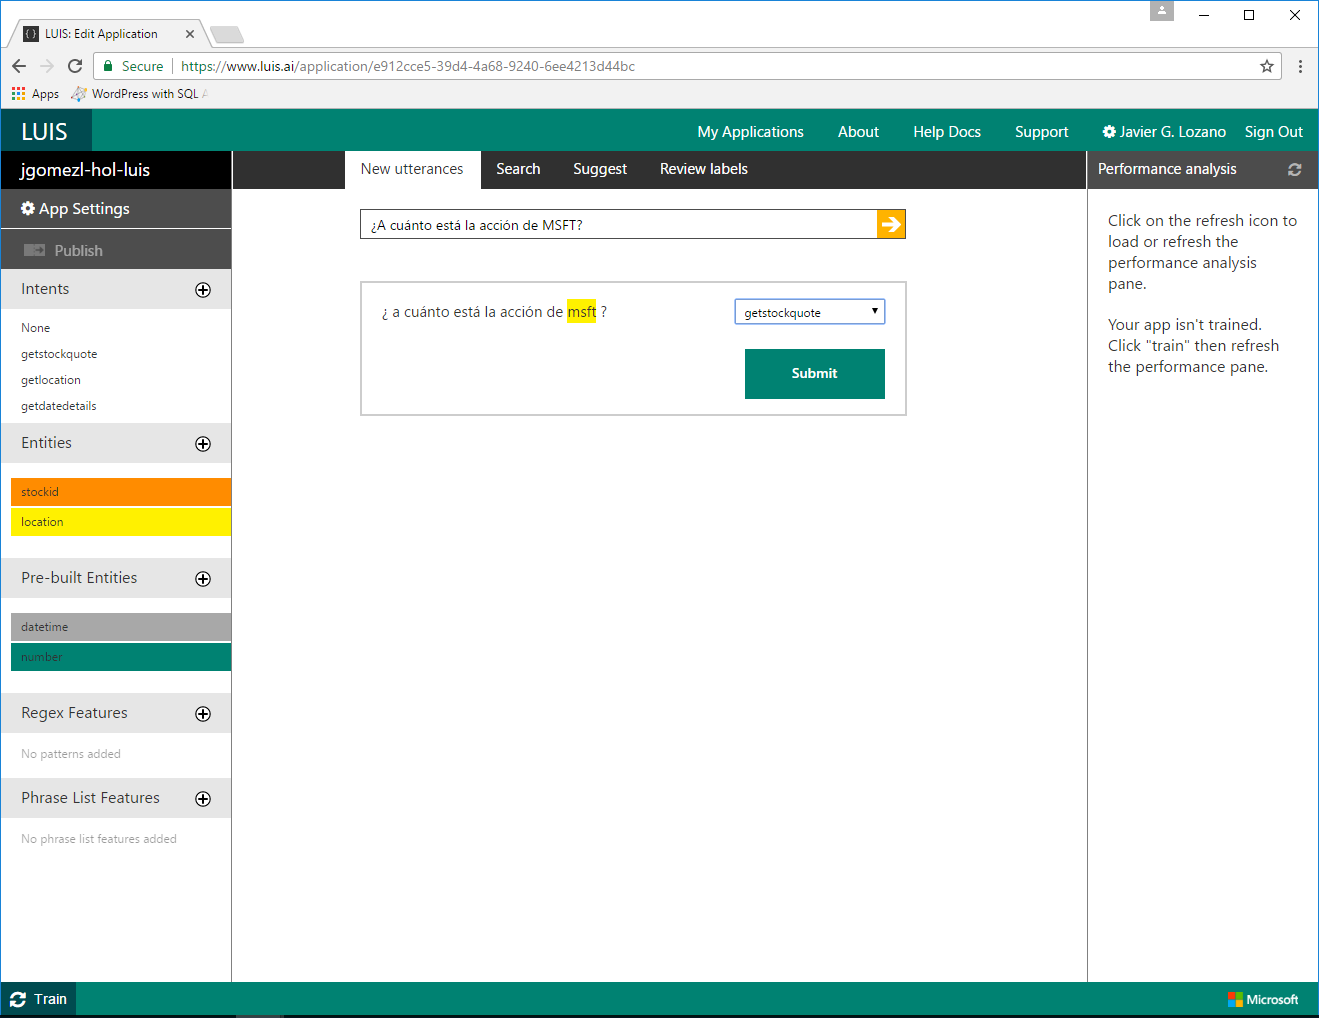
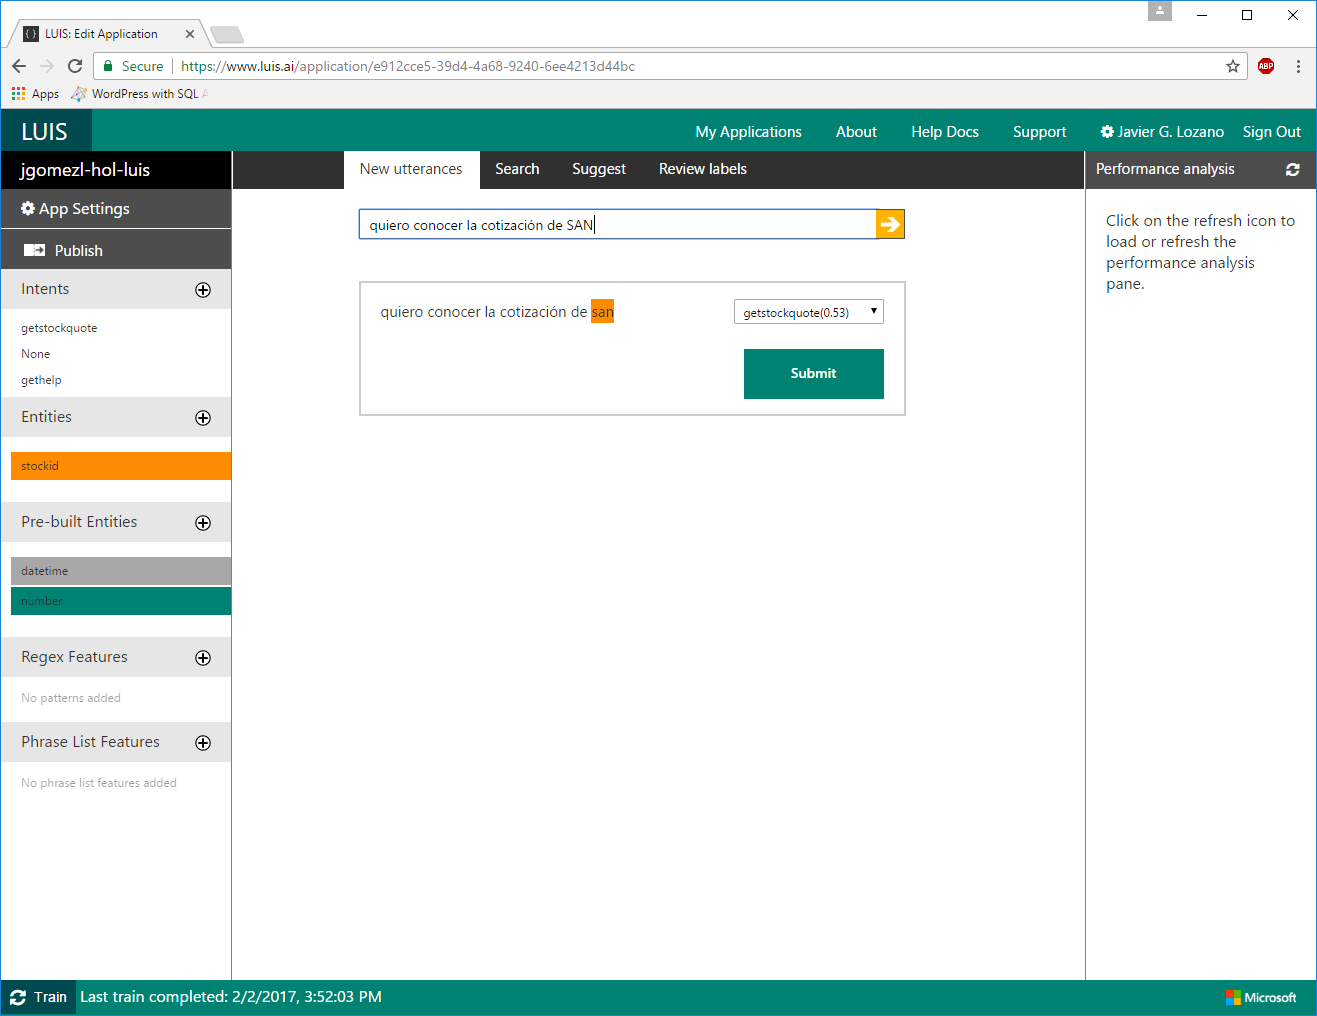
finished 2nd part. added 3rd part.

diff --git a/03. Cognitive Services - Hands on Lab/second-lab.md b/03. Cognitive Services - Hands on Lab/second-lab.md
@@ -1,7 +1,9 @@
 # BOT FRAMEWORK + LUIS (SEGUNDA PARTE)
 * [INTRODUCCIÓN](#introducciÓn)
 * [OBTENCIÓN CREDENCIALES DE DESPLIEGUE](#obtenciÓn-credenciales-de-despliegue)
-* [DESPLIEGUE FTP](#despliegue-ft)
+* [DESPLIEGUE FTP](#despliegue-ftp)
+* [CREACIÓN DEL MODELO CON LUIS](#creaciÓn-del-modelo-con-luis)
+* [INTEGRACIÓN DE LUIS CON EL BOT](#integraciÓn-de-luis-con-el-bot)
 
 ## INTRODUCCIÓN
 En este segunda parte de nuestro laboratorio continuaremos con el despligue de 
@@ -85,7 +87,7 @@ el emulador de bot embebido en el portal de Azure.
 
 ![Bot actualizado](./images/lab2/img4-step2.png)
 
-## UTILIZACIÓN DE LANGUAGE UNDERSTANDING INTELLIGENT SERVICE
+## CREACIÓN DEL MODELO CON LUIS
 
 ### Paso 3
 
@@ -115,8 +117,9 @@ gestionaremos el modelo que soportará nuestra aplicación.
 
 #### NOTA
 *En este laboratorio no entraremos en detalle sobre cómo definir y gestionar
-modelos complejos para reconocimiento de lenguaje natural. Si se tiene interés en profundizar más 
-se recomienda seguir el [Tutorial de LUIS](http://www.luis.ai/Help)
+modelos complejos para reconocimiento de lenguaje natural. Si se tiene interés 
+en profundizar más se recomienda seguir el
+[Tutorial de LUIS](http://www.luis.ai/Help)
 
 ### Paso 4 
 
@@ -134,12 +137,9 @@ las entidades `datetime`, `number` y `money`. Finalizamos pulsando el botón `Ok
 
 Añadiremos también algunas entidades definidas por nosotros para su utilización 
 posterior. Pulsamos en el botón de `Entities` y añadimos una entidad denominada 
-`location`que nos servirá para entender ubicaciones y direcciones.
+`stockid`que n os servirá para entender *tickers* de bolsa.
 
-![Entidades predefinidas](./images/lab2/img1-step5.png)
-
-Creamos además otra entidad denominada `stockid` que también utilizaremos más
-adelante.
+![Definición de entidades](./images/lab2/img1-step5.png)
 
 ### Paso 6
 
@@ -166,7 +166,7 @@ modelo aquella que hemos introducido como ejemplo al definir el `intent`.
 Revisamos que sea correcta y que la intención asociada sea la que queremos y en
 caso afirmativo la enviamos a nuestro modelo mediante el botón `Submit`.
 
-Defimos de manera similar las intenciones `getlocation` y `getdatedetails`.
+Defimos de manera similarel *intent* `gethelp`.
 
 ### Paso 7 
 Ahora que tenemos nuestras entidades y las intenciones definidas, procederemos
@@ -191,4 +191,202 @@ que nos solicitan.
 
 ![Publicación del modelo](./images/lab2/img4-step7.png) 
 
+## INTEGRACIÓN DE LUIS CON EL BOT
+
+En este apartado modificaremos el bot que tenemos desarrollado para que integre
+con el modelo de reconocimiento del lenguaje que acabamos de definir en LUIS.
+
+### Paso 8
+
+Primero añadiremos un par de dependencias NPM a nuestro proyecto. Para ello
+nos posicionamos dentro del directorio donde está nuestro fichero `index.js`
+y abrimos una consola de comandos. Dentro de dicha consola tecleamos las siguientes
+instrucciones:
+
+```
+C:\botlab\messages\> npm install node-bing-api --save
+C:\botlab\messages\> npm install yahoo-finance --save 
+
+```  
+Estas dependencias permitirán a nuestro bot pedir información financiera sobre una 
+compañía mediante los servicios de **Yahoo Finance** y su noticias asociadas mediante el 
+API de **Bing Search**.
+
+#### NOTA 
+Para poder utilizar los servicios de búsqueda de noticias de Bing, es necesario
+disponer de un *API Key* para el servicio. Dicho servicio es parte de los 
+*Cognitive Services* por lo que podemos solicitar dicha clave en el 
+[Portal de desarrolladores de Cognitive Services](http://dev.cognitive.microsoft.com)
+
+Volvemos a nuestro ventana de **Visual Studio Code** y en el fichero `index.js` 
+sustituimos el código existente por el siguiente:
+
+```javascript
+"use strict";
+var builder = require("botbuilder");
+var botbuilder_azure = require("botbuilder-azure");
+const util = require('util');
+var bing = require('node-bing-api')({ accKey: "5d6c5bed99364dd28fb726b38201b69a" });
+var yahooFinance = require('yahoo-finance');
+
+var useEmulator = (process.env.NODE_ENV == 'development');
+
+// Create chat bot
+var connector = useEmulator ? new builder.ChatConnector() : new botbuilder_azure.BotServiceConnector({
+    appId: process.env['MicrosoftAppId'],
+    appPassword: process.env['MicrosoftAppPassword'],
+    stateEndpoint: process.env['BotStateEndpoint'],
+    openIdMetadata: process.env['BotOpenIdMetadata']
+});
+
+var bot = new builder.UniversalBot(connector, {
+    localizerSettings: { defaultLocale: "es" }
+});
+
+var model = "https://westus.api.cognitive.microsoft.com/luis/v2.0/apps/e912cce5-39d4-4a68-9240-6ee4213d44bc?subscription-key=d41eb70bf2db42c6869a3b0fd6e6ffad";
+var recognizer = new builder.LuisRecognizer(model);
+var intents = new builder.IntentDialog({ recognizers: [recognizer] });
+
+// Now register begin conversation dialog
+intents.onBegin(function (session, args) {
+    session.send("Hola. ¿Cómo puedo ayudarte?");
+});
+
+// Register default dialog for non-recognized utterances
+intents.onDefault(builder.DialogAction.send("Lo siento, eso no lo he entendido. ¿Me lo puedes explicar mejor?"));
+
+// Now define intentss based on intents and entities
+// Intent: getlocation
+intents.matches('getstockquote', [
+   // First step of the dialog
+    function (session, args, next) {
+        var stockIdEntity = builder.EntityRecognizer.findEntity(args.entities, 'stockid');
+        var stockId = session.dialogData.stockId = (stockIdEntity) ? stockIdEntity.entity : null;
+        console.log('Intent "getstockquote" stock:' + stockId);
+        next();
+        // Let's get the stock info from Yahoo! Finance
+        yahooFinance.snapshot({
+            symbol: session.dialogData.stockId
+        }).then(function (data) {
+            console.log(data);
+            var fmt = new Intl.NumberFormat();
+            var stockQuote = session.dialogData.stockQuote = data;
+            session.send("Stock %s [%s] Precio %s (%s) Volumen %s",
+                stockQuote.name,
+                stockQuote.symbol,
+                fmt.format(stockQuote.lastTradePriceOnly, { style: 'currency', minimumFractionDigits: 2 }),
+                fmt.format(stockQuote.change, { style: 'percent', minimumFractionDigits: 2 }),
+                fmt.format(stockQuote.volume, { style: 'decimal', minimumFractionDigits: 2 }));
+            builder.Prompts.confirm(session,
+                util.format("¿Quieres que te muestre las últimas noticias sobre '%s'?", stockQuote.name),
+                { localizationNamespace: 'es' });
+        },function (reason) {
+                session.send("Lo siento pero no he sido capaz de encontrar información sobre '%s'",
+                    session.dialogData.stockId);
+        })
+    },
+    // Second step of the dialog
+    function (session, results, next) {
+        if (results.response) {
+           // Let's get the news about the company from Bing
+            bing.news(session.dialogData.stockQuote.name, 
+                {top: 3},
+                function (error, res, body) {
+                if (body.value.length > 0) {
+                    session.send("Esto es lo que encontré sobre '%s'\n", session.dialogData.stockQuote.name);
+                    body.value.forEach(function (element) {
+                        var card = new builder.HeroCard(session)
+                            .title(element.name)
+                            .text(element.description)
+                            .buttons([builder.CardAction.openUrl(session, element.url, "Navegar")]);
+                        var msg = new builder.Message(session).addAttachment(card);
+                        session.send(msg);
+                    });
+                }
+                else {
+                    session.send("Pues parece que no hay muchas noticias hoy sobre ello");
+                }
+            });
+        }
+    }
+]);
+// Intent: gethelp
+intents.matches('gethelp', function (session, args) {
+    session.send("Soy un bot bastante listo y sé mucho sobre cotizaciones de bolsa. Ponme a prueba")
+});
+
+bot.dialog('/', intents);
+
+// Setup Restify Server if needed
+if (useEmulator) {
+   var restify = require('restify');
+   var server = restify.createServer();
+   server.listen(3978, function () {
+        console.log('test bot endpoint at http://localhost:3978/api/messages');
+   });
+   server.post('/api/messages', connector.listen());
+} else {
+   module.exports = { default: connector.listen() };
+}
+```
+
+Si se observa el código adjunto, nuestro bot define dos dialogos basados en 
+`intents`. Uno de ellos gestiona el dialogo para obtener la cotización y las 
+noticias asociadas de un *ticker* y el segundo es el diálogo cuando el usuario
+solicita ayuda al bot.
+
+Comprobamos que nuestro bot funciona correctamente con el nuevo código,
+utilizando el emulardor tal y como se hizo en el
+[Paso 6 del laboratorio anterior](./README.md#paso-6)
+
+![Depuración local](./images/lab2/img1-step8.png)
+
+![Depuración local cont.](./images/lab2/img2-step8.png)
+
+Como se puede ver, el bot es capaz de entender peticiones realizadas en 
+lenguaje natural, acceder a servicios REST para obtención de la información
+solicitada, y además presentarla en *Cards* de una manera rica (*Las HeroCard 
+pueden no estar soportadas en todos los canales posibles a los que podeos conectar 
+nuestro bot, como por ejemplo SMS*)
+
+Vamos a desplegar la nueva lógica de nuestro bot en la instancia de *Bot Service* 
+que tenemos en Azure.
+
+## DESPLIEGUE EN AZURE 
+
+### Paso 9
+
+Ahora, utilizando FTP procedemos a subir los ficheros `package.json` e `index.js`
+dentro del correspondiente directorio de nuestra instancia tal y como realizamos
+en el [Paso 2 de este laboratorio](#Paso-2)
+
+### Paso 10
+
+Una vez subido el código, debemos forzar a que la aplicación restaure sus 
+dependencias NPM en Azure. Para ello abrimos el *blade* de configuración avanzada
+de nuestro bot y seleccionamos la opción `Console`
+
+![Apertura de consola en  bot](./images/lab2/img1-step10.png)
+
+Dentro de la consola, nos posicionamos en el directorio de la aplicación del
+bot en el que está el fichero `package.json`y tecleamos:
+
+```powershell
+> npm install
+```
+
+Esto restaurará las dependencias nuevas para poder acceder a **Yahoo! Finance API** y 
+**Bing Search API**
+
+Una vez finalizada la restauración de dependencias, damos unos minutos a 
+nuestro bot para que refresque la instancia con los cambios y ya tendremos
+disponible la nueva lógica en nuestra instancia en Azure.
+
+![Nueva lógica disponible](./images/lab2/img2-step10.png) 
+
+Ahora ya solo resta, publicar nuestro bot para poderlo conectar en diversos
+canales y que la gente lo pueda acceder.
+
+Eso lo haremos en la [tercera parte de nuestro laboratorio](./third-lab.md)
+ 
 

diff --git a/03. Cognitive Services - Hands on Lab/third-lab.md b/03. Cognitive Services - Hands on Lab/third-lab.md
@@ -1,0 +1,1 @@
+# BOT FRAMEWORK + LUIS (TERCERA PARTE)
